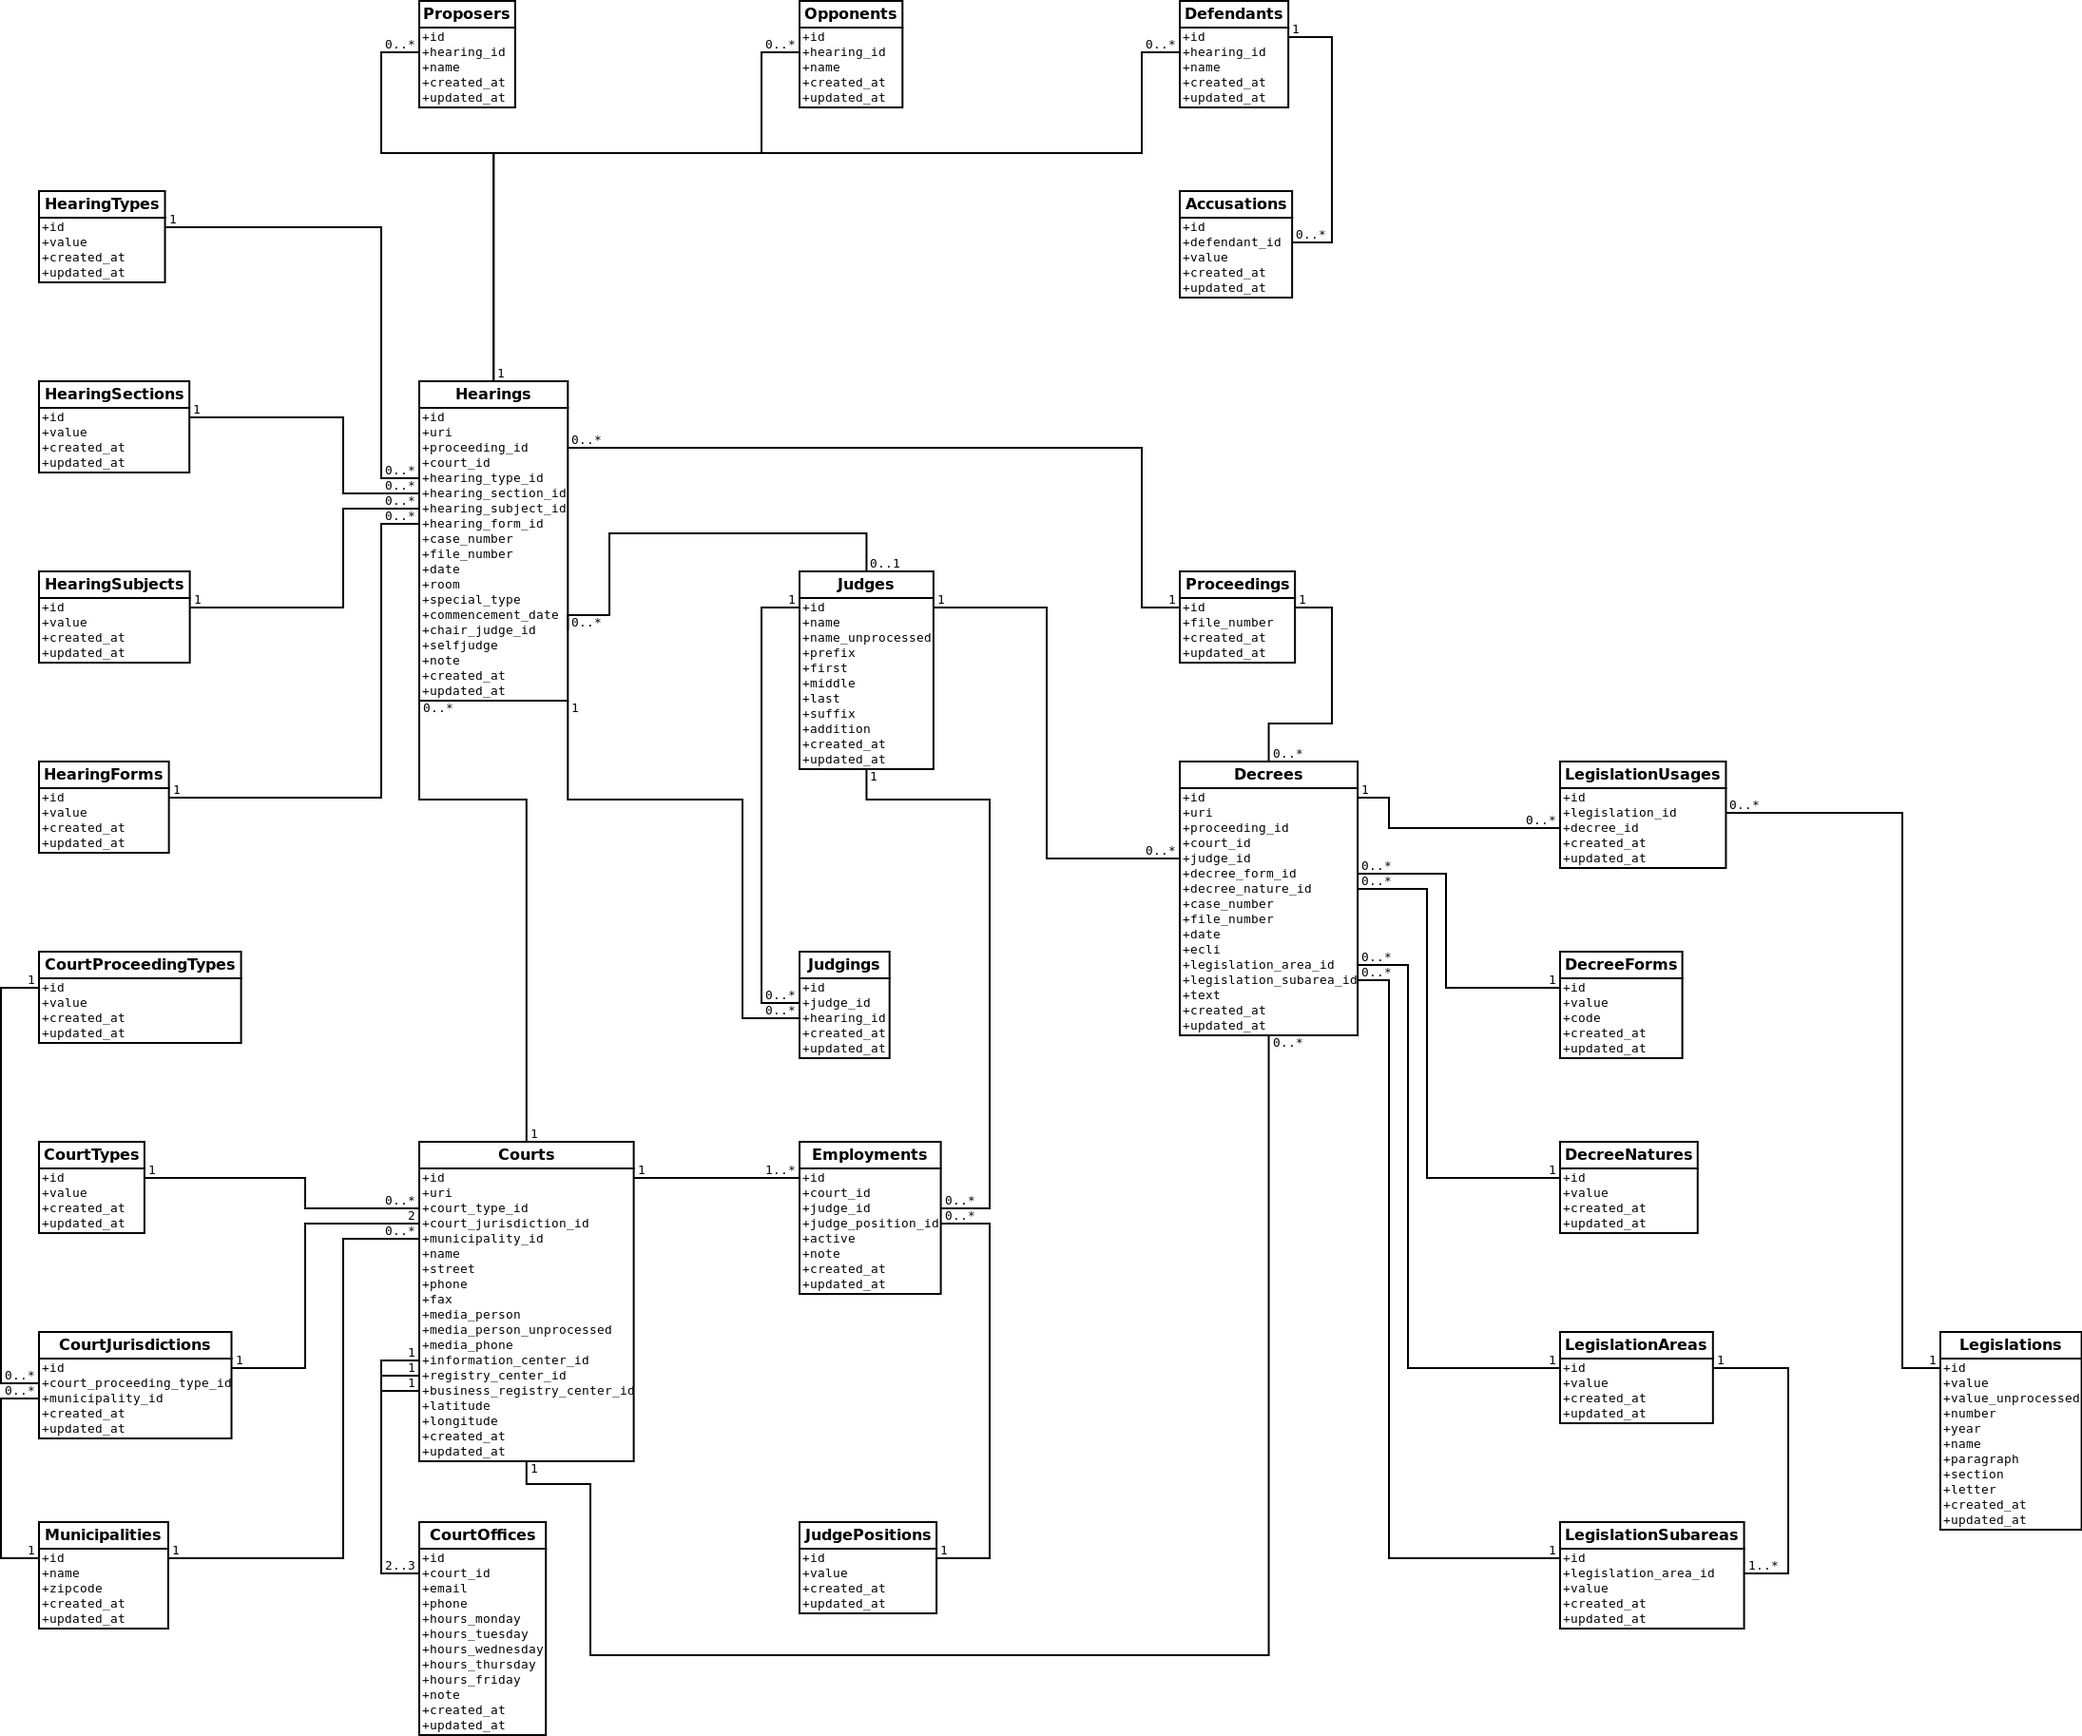
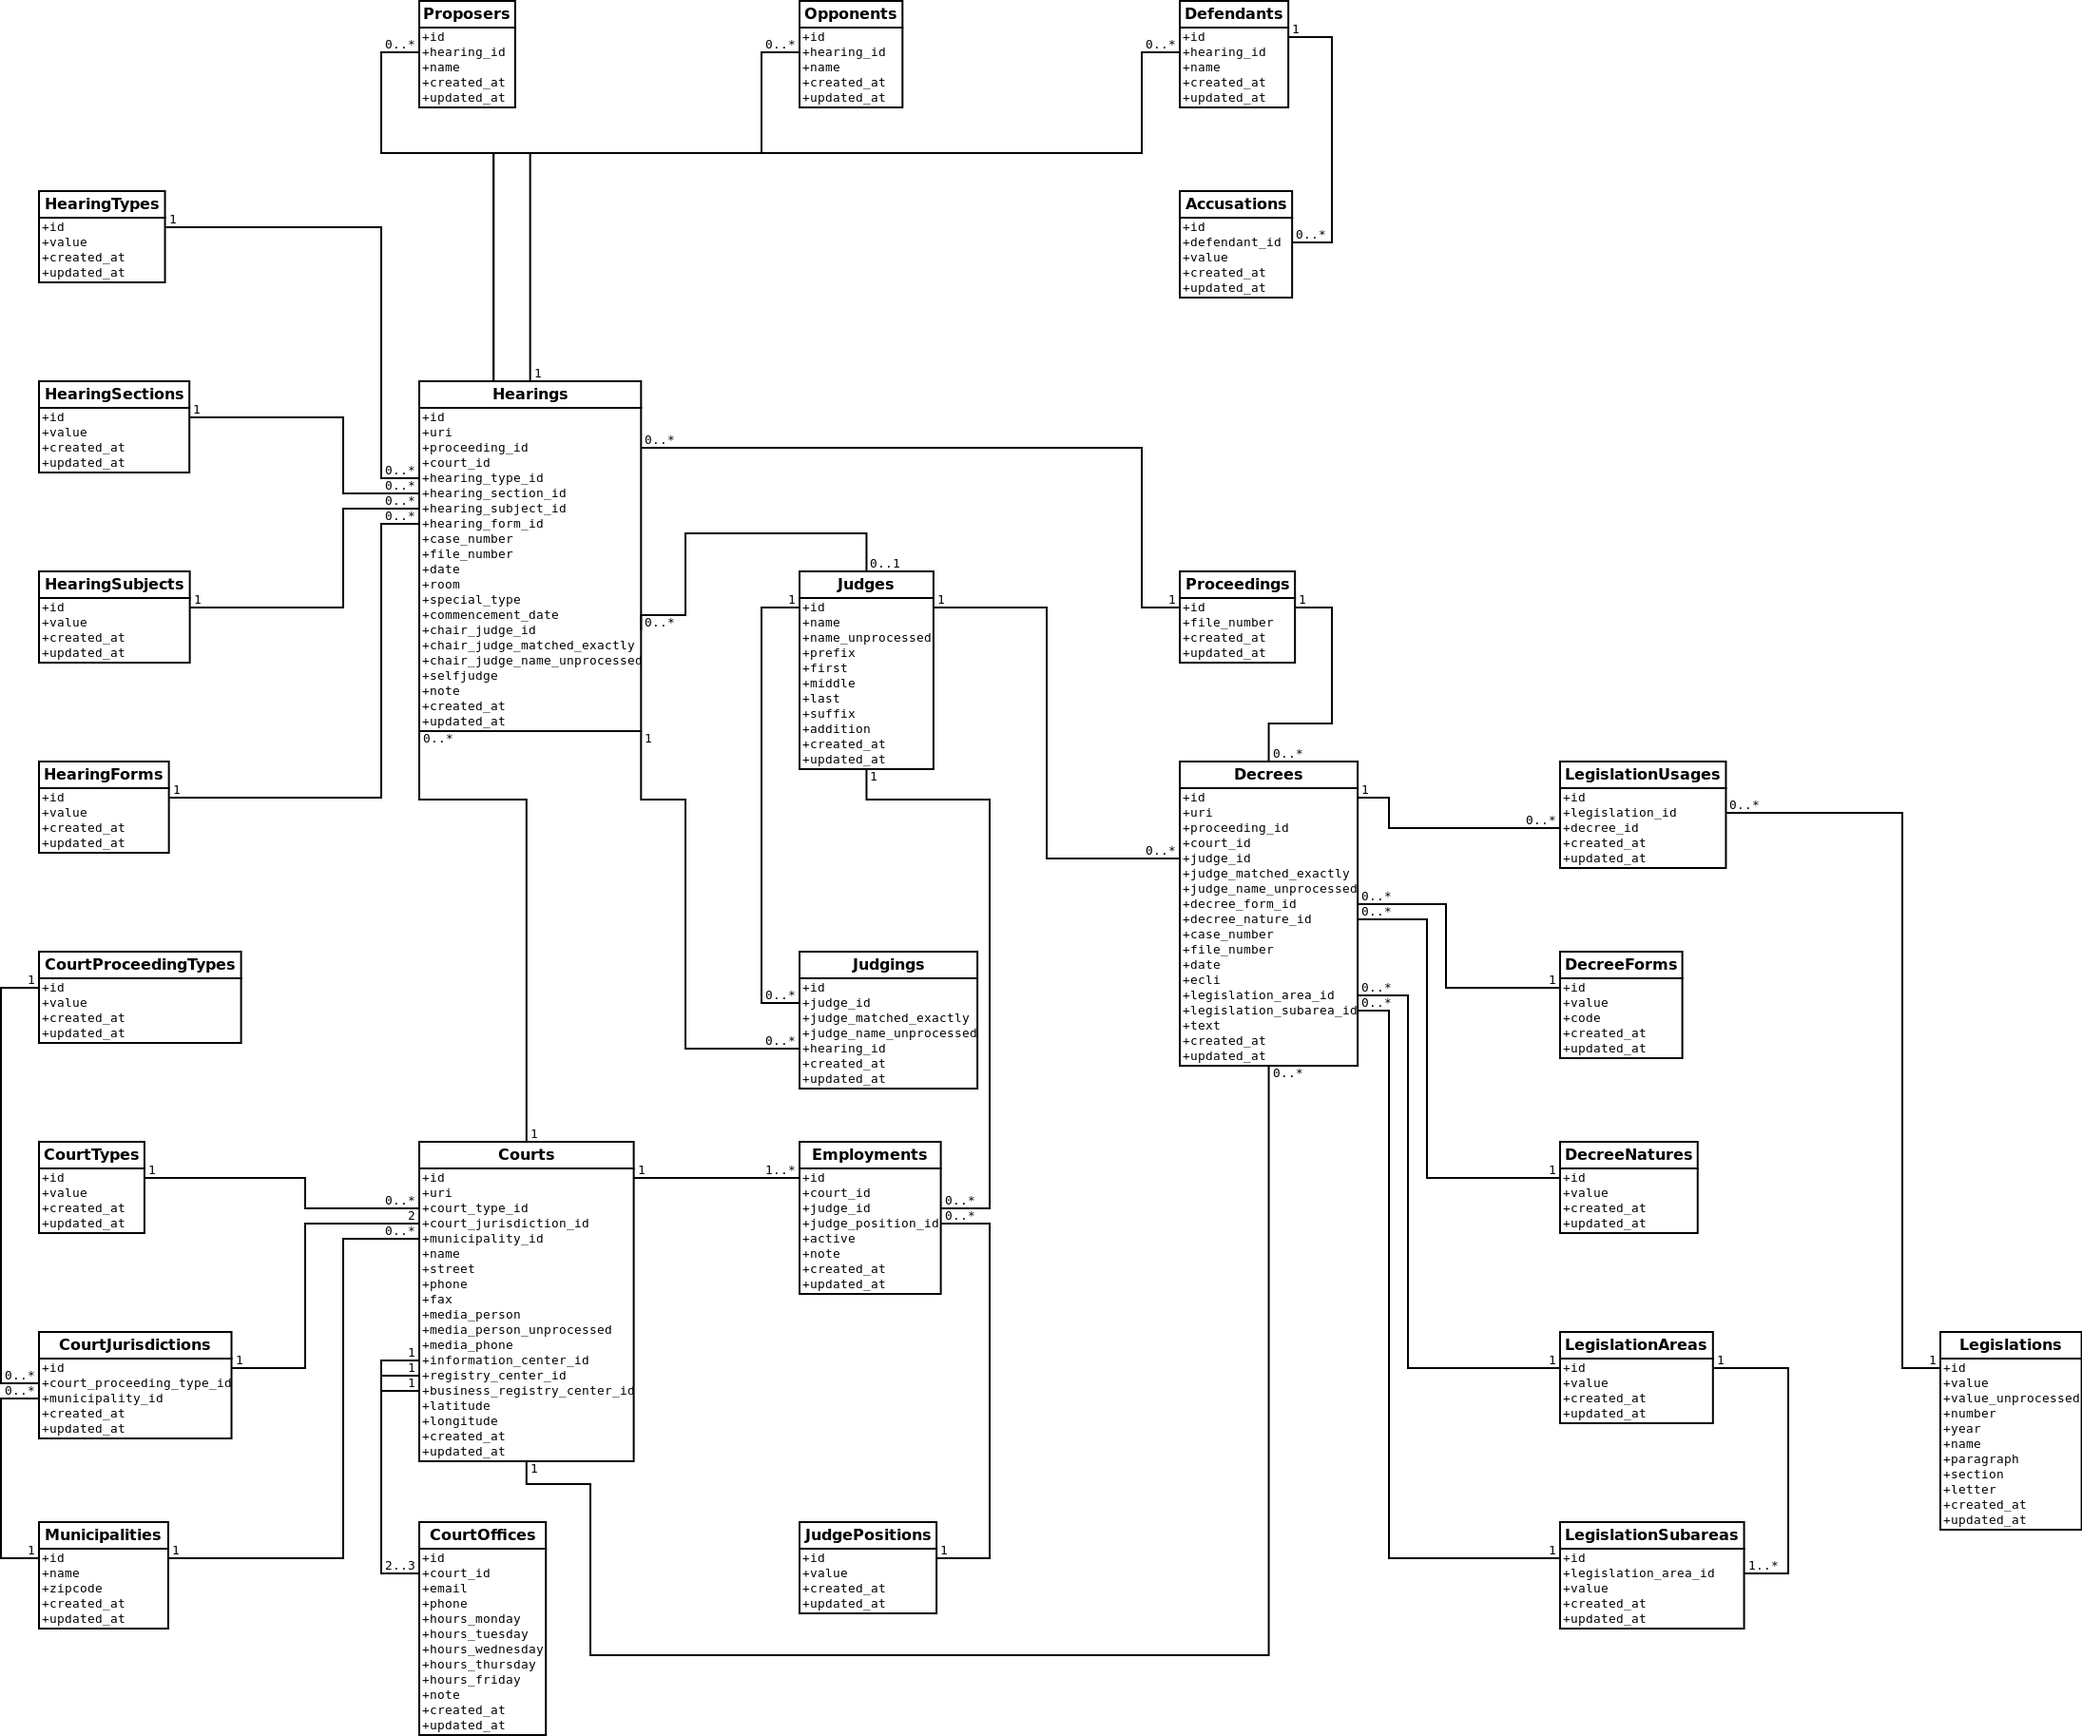
Adjust DB schema to support judge matching

diff --git a/db/schema.rb b/db/schema.rb
@@ -113,6 +113,8 @@ ActiveRecord::Schema.define(:version => 20121116190757) do
     t.integer  "proceeding_id"
     t.integer  "court_id"
     t.integer  "judge_id"
+    t.boolean  "judge_matched_exactly",  :null => false
+    t.string   "judge_name_unprocessed", :null => false
     t.integer  "decree_form_id"
     t.integer  "decree_nature_id"
     t.string   "case_number"
@@ -189,10 +191,10 @@ ActiveRecord::Schema.define(:version => 20121116190757) do
   add_index "hearing_types", ["value"], :name => "index_hearing_types_on_value", :unique => true
 
   create_table "hearings", :force => true do |t|
-    t.string   "uri",                :null => false
+    t.string   "uri",                          :null => false
     t.integer  "proceeding_id"
     t.integer  "court_id"
-    t.integer  "hearing_type_id",    :null => false
+    t.integer  "hearing_type_id",              :null => false
     t.integer  "hearing_section_id"
     t.integer  "hearing_subject_id"
     t.integer  "hearing_form_id"
@@ -203,10 +205,12 @@ ActiveRecord::Schema.define(:version => 20121116190757) do
     t.string   "special_type"
     t.datetime "commencement_date"
     t.integer  "chair_judge_id"
+    t.boolean  "chair_judge_matched_exactly"
+    t.string   "chair_judge_name_unprocessed"
     t.boolean  "selfjudge"
     t.text     "note"
-    t.datetime "created_at",         :null => false
-    t.datetime "updated_at",         :null => false
+    t.datetime "created_at",                   :null => false
+    t.datetime "updated_at",                   :null => false
   end
 
   add_index "hearings", ["case_number"], :name => "index_hearings_on_case_number"
@@ -241,10 +245,12 @@ ActiveRecord::Schema.define(:version => 20121116190757) do
   add_index "judges", ["name"], :name => "index_judges_on_name", :unique => true
 
   create_table "judgings", :force => true do |t|
-    t.integer  "judge_id",   :null => false
-    t.integer  "hearing_id", :null => false
-    t.datetime "created_at", :null => false
-    t.datetime "updated_at", :null => false
+    t.integer  "judge_id",               :null => false
+    t.boolean  "judge_matched_exactly",  :null => false
+    t.string   "judge_name_unprocessed", :null => false
+    t.integer  "hearing_id",             :null => false
+    t.datetime "created_at",             :null => false
+    t.datetime "updated_at",             :null => false
   end
 
   add_index "judgings", ["hearing_id", "judge_id"], :name => "index_judgings_on_hearing_id_and_judge_id", :unique => true

diff --git a/db/migrate/20121030202830_create_judgings.rb b/db/migrate/20121030202830_create_judgings.rb
@@ -1,7 +1,10 @@
 class CreateJudgings < ActiveRecord::Migration
   def change
     create_table :judgings do |t|
-      t.references :judge,   null: false
+      t.references :judge,                  null: false
+      t.boolean    :judge_matched_exactly,  null: false
+      t.string     :judge_name_unprocessed, null: false
+
       t.references :hearing, null: false
 
       t.timestamps

diff --git a/db/migrate/20121030201443_create_hearings.rb b/db/migrate/20121030201443_create_hearings.rb
@@ -20,6 +20,8 @@ class CreateHearings < ActiveRecord::Migration
       t.string     :special_type
       t.datetime   :commencement_date
       t.references :chair_judge
+      t.boolean    :chair_judge_matched_exactly
+      t.string     :chair_judge_name_unprocessed
       t.boolean    :selfjudge
 
       t.text :note

diff --git a/db/migrate/20121030210328_create_decrees.rb b/db/migrate/20121030210328_create_decrees.rb
@@ -7,6 +7,9 @@ class CreateDecrees < ActiveRecord::Migration
       t.references :court
       t.references :judge
       
+      t.boolean :judge_matched_exactly,  null: false
+      t.string  :judge_name_unprocessed, null: false
+      
       t.references :decree_form
       t.references :decree_nature
             

diff --git a/app/models/hearing.rb b/app/models/hearing.rb
@@ -6,6 +6,8 @@ class Hearing < ActiveRecord::Base
                   :room,
                   :special_type,
                   :commencement_date,
+                  :chair_judge_matched_exactly,
+                  :chair_judge_name_unprocessed,
                   :selfjudge,
                   :note
   

diff --git a/app/models/decree.rb b/app/models/decree.rb
@@ -1,5 +1,7 @@
 class Decree < ActiveRecord::Base
   attr_accessible :uri,
+                  :judge_matched_exactly,
+                  :judge_name_unprocessed,
                   :case_number,
                   :file_number,
                   :date,

diff --git a/app/models/judging.rb b/app/models/judging.rb
@@ -1,4 +1,7 @@
 class Judging < ActiveRecord::Base
+  attr_accessible :judge_matched_exactly,
+                  :judge_name_unprocessed
+  
   belongs_to :judge
   belongs_to :hearing
 end
